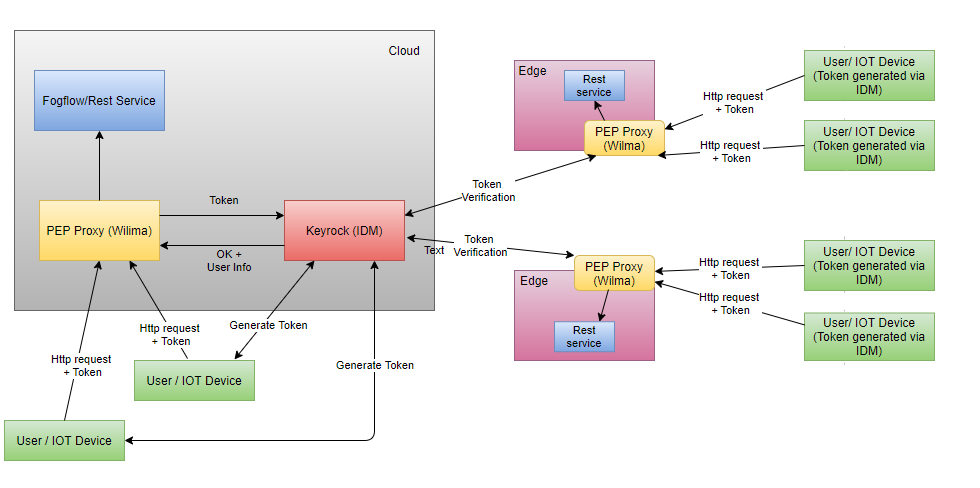
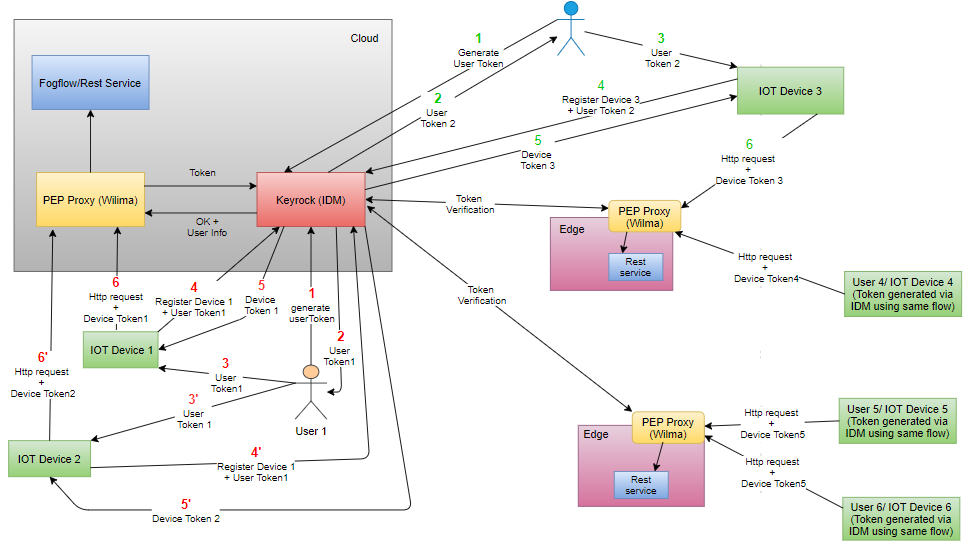
edge_security_manual: Addition of content and png file

diff --git a/doc/en/source/https.rst b/doc/en/source/https.rst
@@ -212,11 +212,46 @@ Terminology
 .. figure:: figures/Security_Architecture.png
 
 
+Note: Red markers represent IoT Device interaction with cloud and  green markers represent IoT Device interaction with Edge Node
 
-Note: In above diagram n ( n is numeric) is used for cloud node and n’ for edge node.
+ 
+
+Flow of Requests as shown in diagram:
+
+Step 1 : User will make a request to IDM using his credentials to generate access token specific for that user. For example:
 
 
-FogFlow cloud node flow:
+.. code-block:: console
+      curl --include \
+        --request POST \
+        --header "Content-Type: application/json" \
+        --data-binary "{
+     \"name\": \"admin@test.com\",
+     \"password\": \"1234\"
+   }" \
+   "http://$IP_ADDRESS:3000/v1/auth/tokens" 
+
+ 
+
+Step 2 : IDM will return an access token to user, based on his credentials in rquest made in previous step.
+
+Step 3 : User shares his access token ( i.e. User Access Token ) to IoT Device.
+
+Step 4 : IoT Device is regstered with IDM using User Access Token as shown in `below`_ topics. As an output, IDM provides an Id and password to IoT Device based on the registration request.
+
+.. _`below`: https://fogflow.readthedocs.io/en/latest/https.html#register-IoT-Sensor-on-Keyrock
+
+Step 5 : Using the above ID and password for IoT Device (generated in previous request), a request is made to IDM to generate an access token specific for that Device only as shown in `later`_ section.
+
+.. _`later`: https://fogflow.readthedocs.io/en/latest/https.html#register-IoT-Sensor-on-Keyrock
+
+Step 6 : Now, using the above access token, the IoT Device can interact with Edge node via making Fogflow specific requests to PEP Proxy port.
+
+
+Cloud and Edge Interaction with IDM 
+------------------------------------
+
+**FogFlow cloud node flow:**
 
 1. As in architecture diagram, PEP Proxy will register itself on behalf FogFlow Designer first on Keyrock. Detail explanation is given in `below`_ topics of this tutorial.
 
@@ -224,7 +259,8 @@ FogFlow cloud node flow:
 
 .. _`below`: https://fogflow.readthedocs.io/en/latest/https.html#setup-security-components-on-cloud-node
 
-FogFlow edge node flow:
+
+**FogFlow edge node flow:**
 
 
 1. On behalf of edge node, one instance of PEP Proxy will be pre-registered on keyrock, edge will be using oauth credentials to fetch PEP Proxy  details. Detail explanation is given in below topics of this tutorial. Click `here`_ to refer.
@@ -345,6 +381,7 @@ To setup PEP proxy for securing Designer, change the followings inside the pep_c
 
 Restart the PEP Proxy container after above changes.
 
+**Generate Access Token** 
 
 **Step2**: Request Keyrock IDM to generate access-token and refresh token.
 
